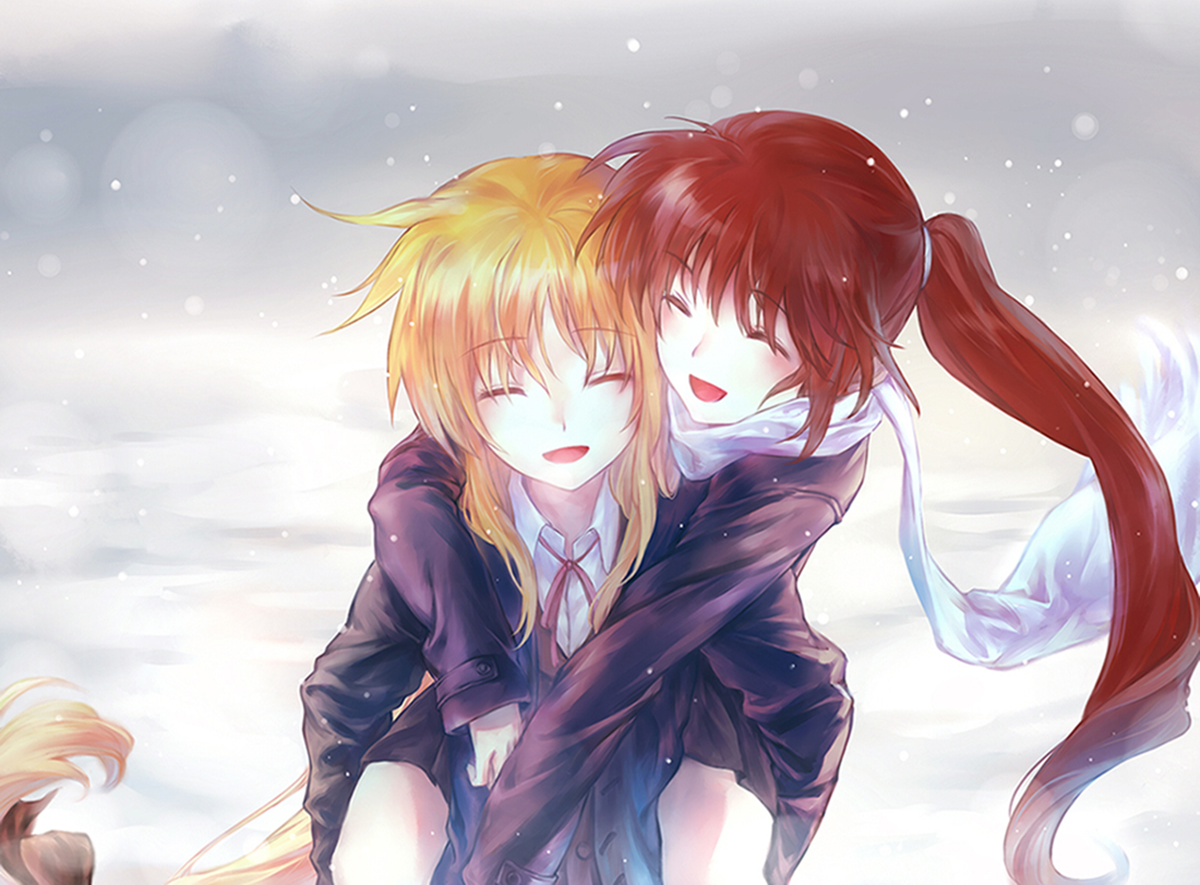
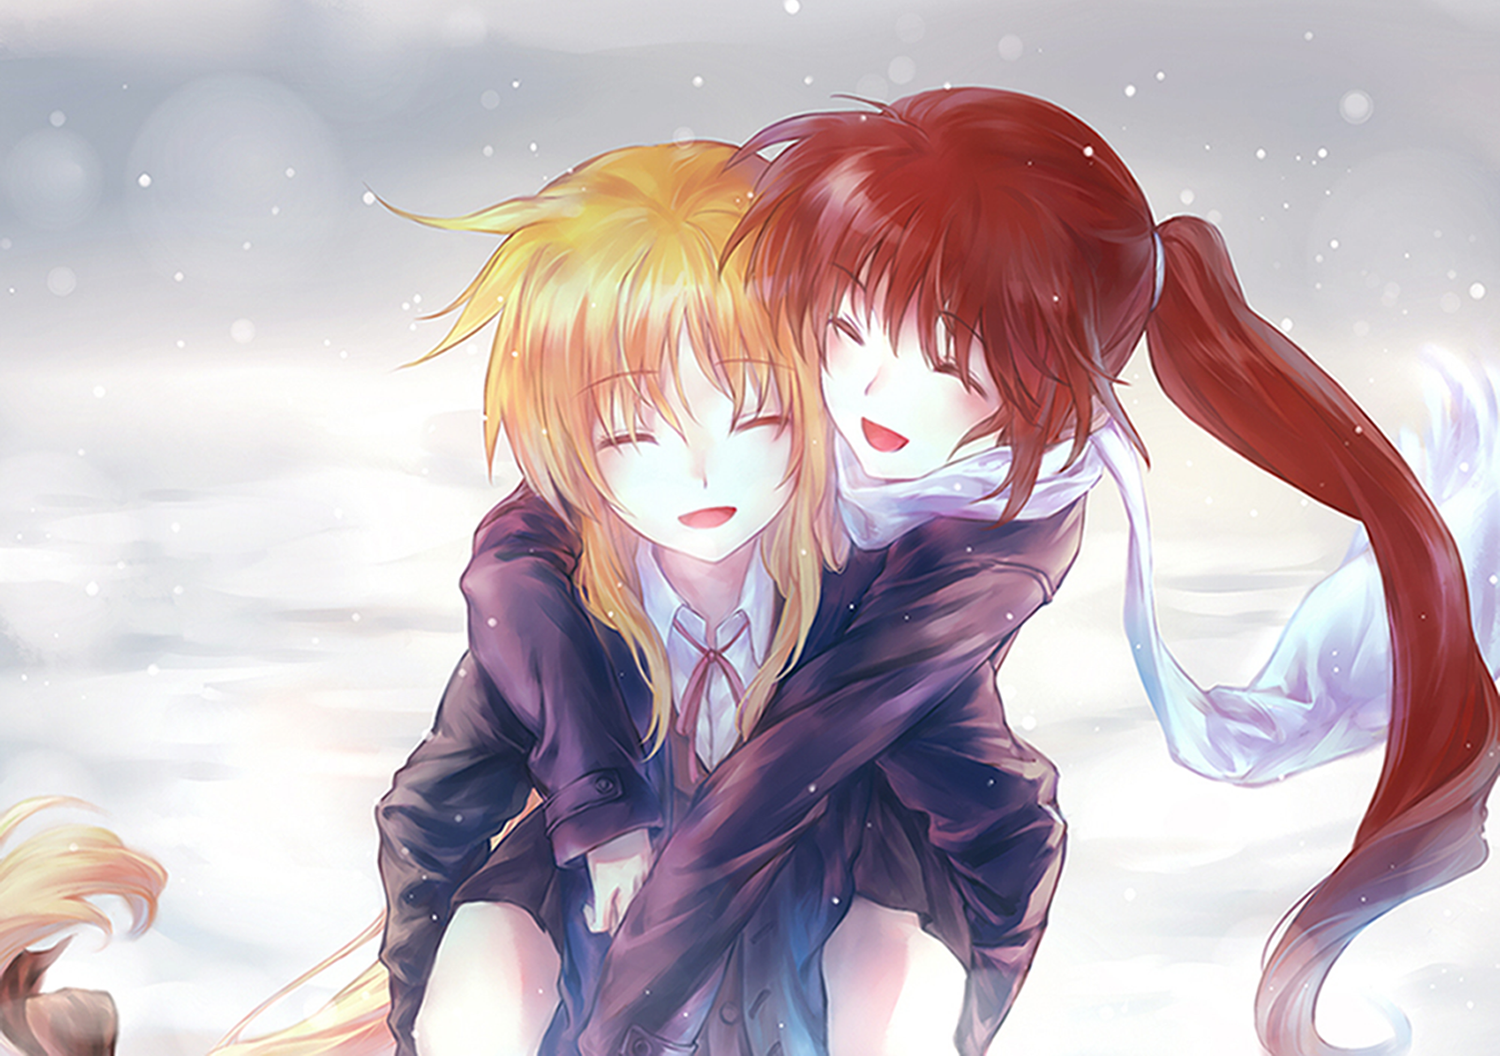
解决背景透明度问题

diff --git a/app/templates/base.html b/app/templates/base.html
@@ -16,6 +16,7 @@
     {% endif %}
 </head>
 <body>
+<!-- 导航栏 -->
 <nav class="navbar navbar-default" role="navigation">
     <div class="col-lg-10">
         <div class="navbar-header">
@@ -27,8 +28,9 @@
                 <li><a href="#">相册</a> </li>
             </ul>
         </div>
+        <!-- 用font-awesome显示小图标 -->
         <div class="nav navbar-nav navbar-right">
-            <li><a href="https://github.com/penguin-penpen" target="_blank"><i class="icon-github"></i> </a></li>
+            <li><a href="https://github.com/penguin-penpen" target="_blank"><i class="fa fa-github"></i> </a></li>
             <li>
                 <a href="http://www.linkedin.com/in/%E4%BA%AC%E8%95%BE-%E6%9D%A8-a88702103?trk=hp-identity-name">Lindedin
                 </a>
@@ -36,16 +38,18 @@
         </div>
     </div>
 </nav>
-<div class="back">
-    <div class="container bs-docs-container">
-        <div class="col-lg-10" role="main">
+<!-- 内容 -->
+<div class="container-back">
+    <div class="back"></div>
+    <div class="container">
+        <div class="col-lg-10" role="main" id="content">
             {% block content %}
 
             {% endblock %}
         </div>
     </div>
-
 </div>
+
 <hr>
 {% with messages = get_flashed_messages() %}
 {% if messages %}
@@ -56,6 +60,6 @@
 </ul>
 {% endif %}
 {% endwith %}
-
+<footer>footer</footer>
 </body>
 </html>

diff --git a/app/static/custom.css b/app/static/custom.css
@@ -1,12 +1,41 @@
 body{
-    opacity: 0.9;
+}
+.navbar{
+    opacity: 0.8;
+    margin-bottom: 0px;
 }
 .back{
-    width: auto;
-    height: auto;
+    position: absolute;
+    width: 1500px;
+    height: 1500px;
+    margin-left: 0px;
+    margin-right: 0px;
     background: url(images/back.png);
+    background-attachment: fixed;
     background-repeat: no-repeat;
-    background-position: center;
+    opacity: 0.35;
+    z-index: 0;
+}
+.col-lg-10#content{
+    height: 100%;
+    margin-left: 5%;
+    margin-right: 5%;
+    margin-top: 0px;
+    background: rgba(255,255,255,0.7);
+    z-index: 1;
+
+}
+.container{
+    height: 1500px;
+}
+.container-back{
+    margin-left: 5px;
+    margin-right: 5px;
+}
+.row{
+    padding-left: 5px;
+    padding-right: 5px;
+    height: 150px;
 }
 .btn{
     border-radius: 0px;
